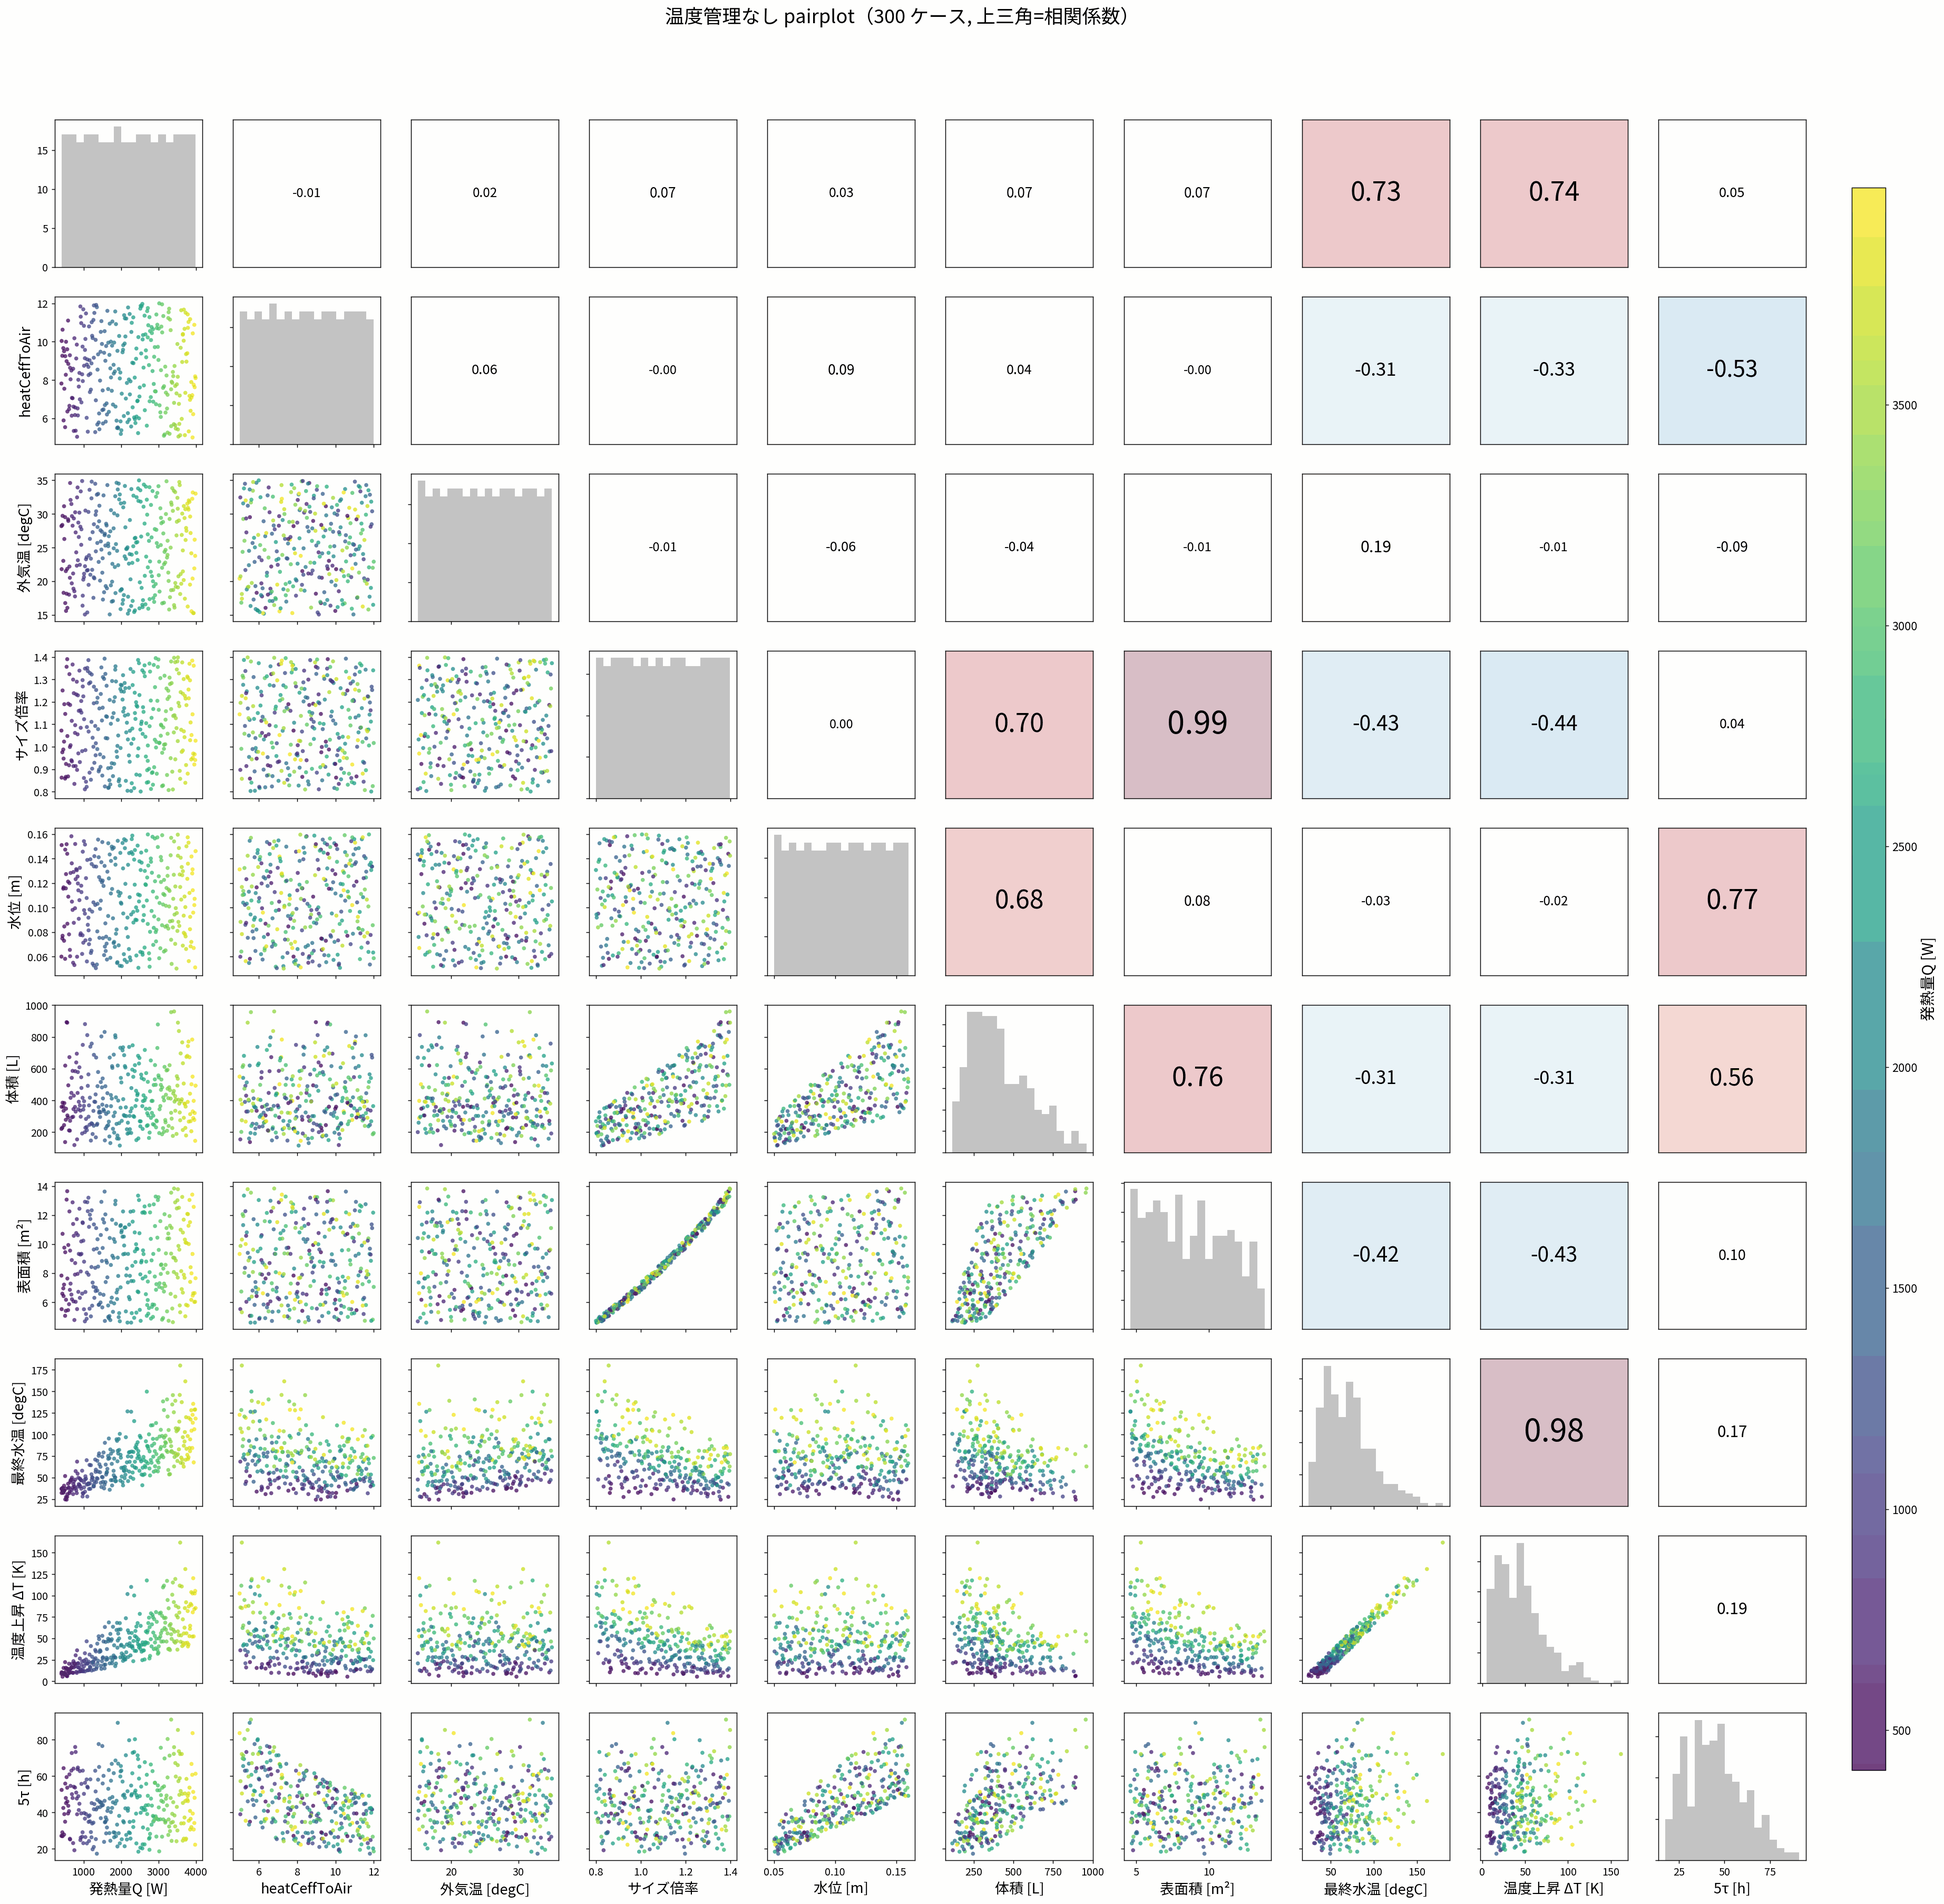
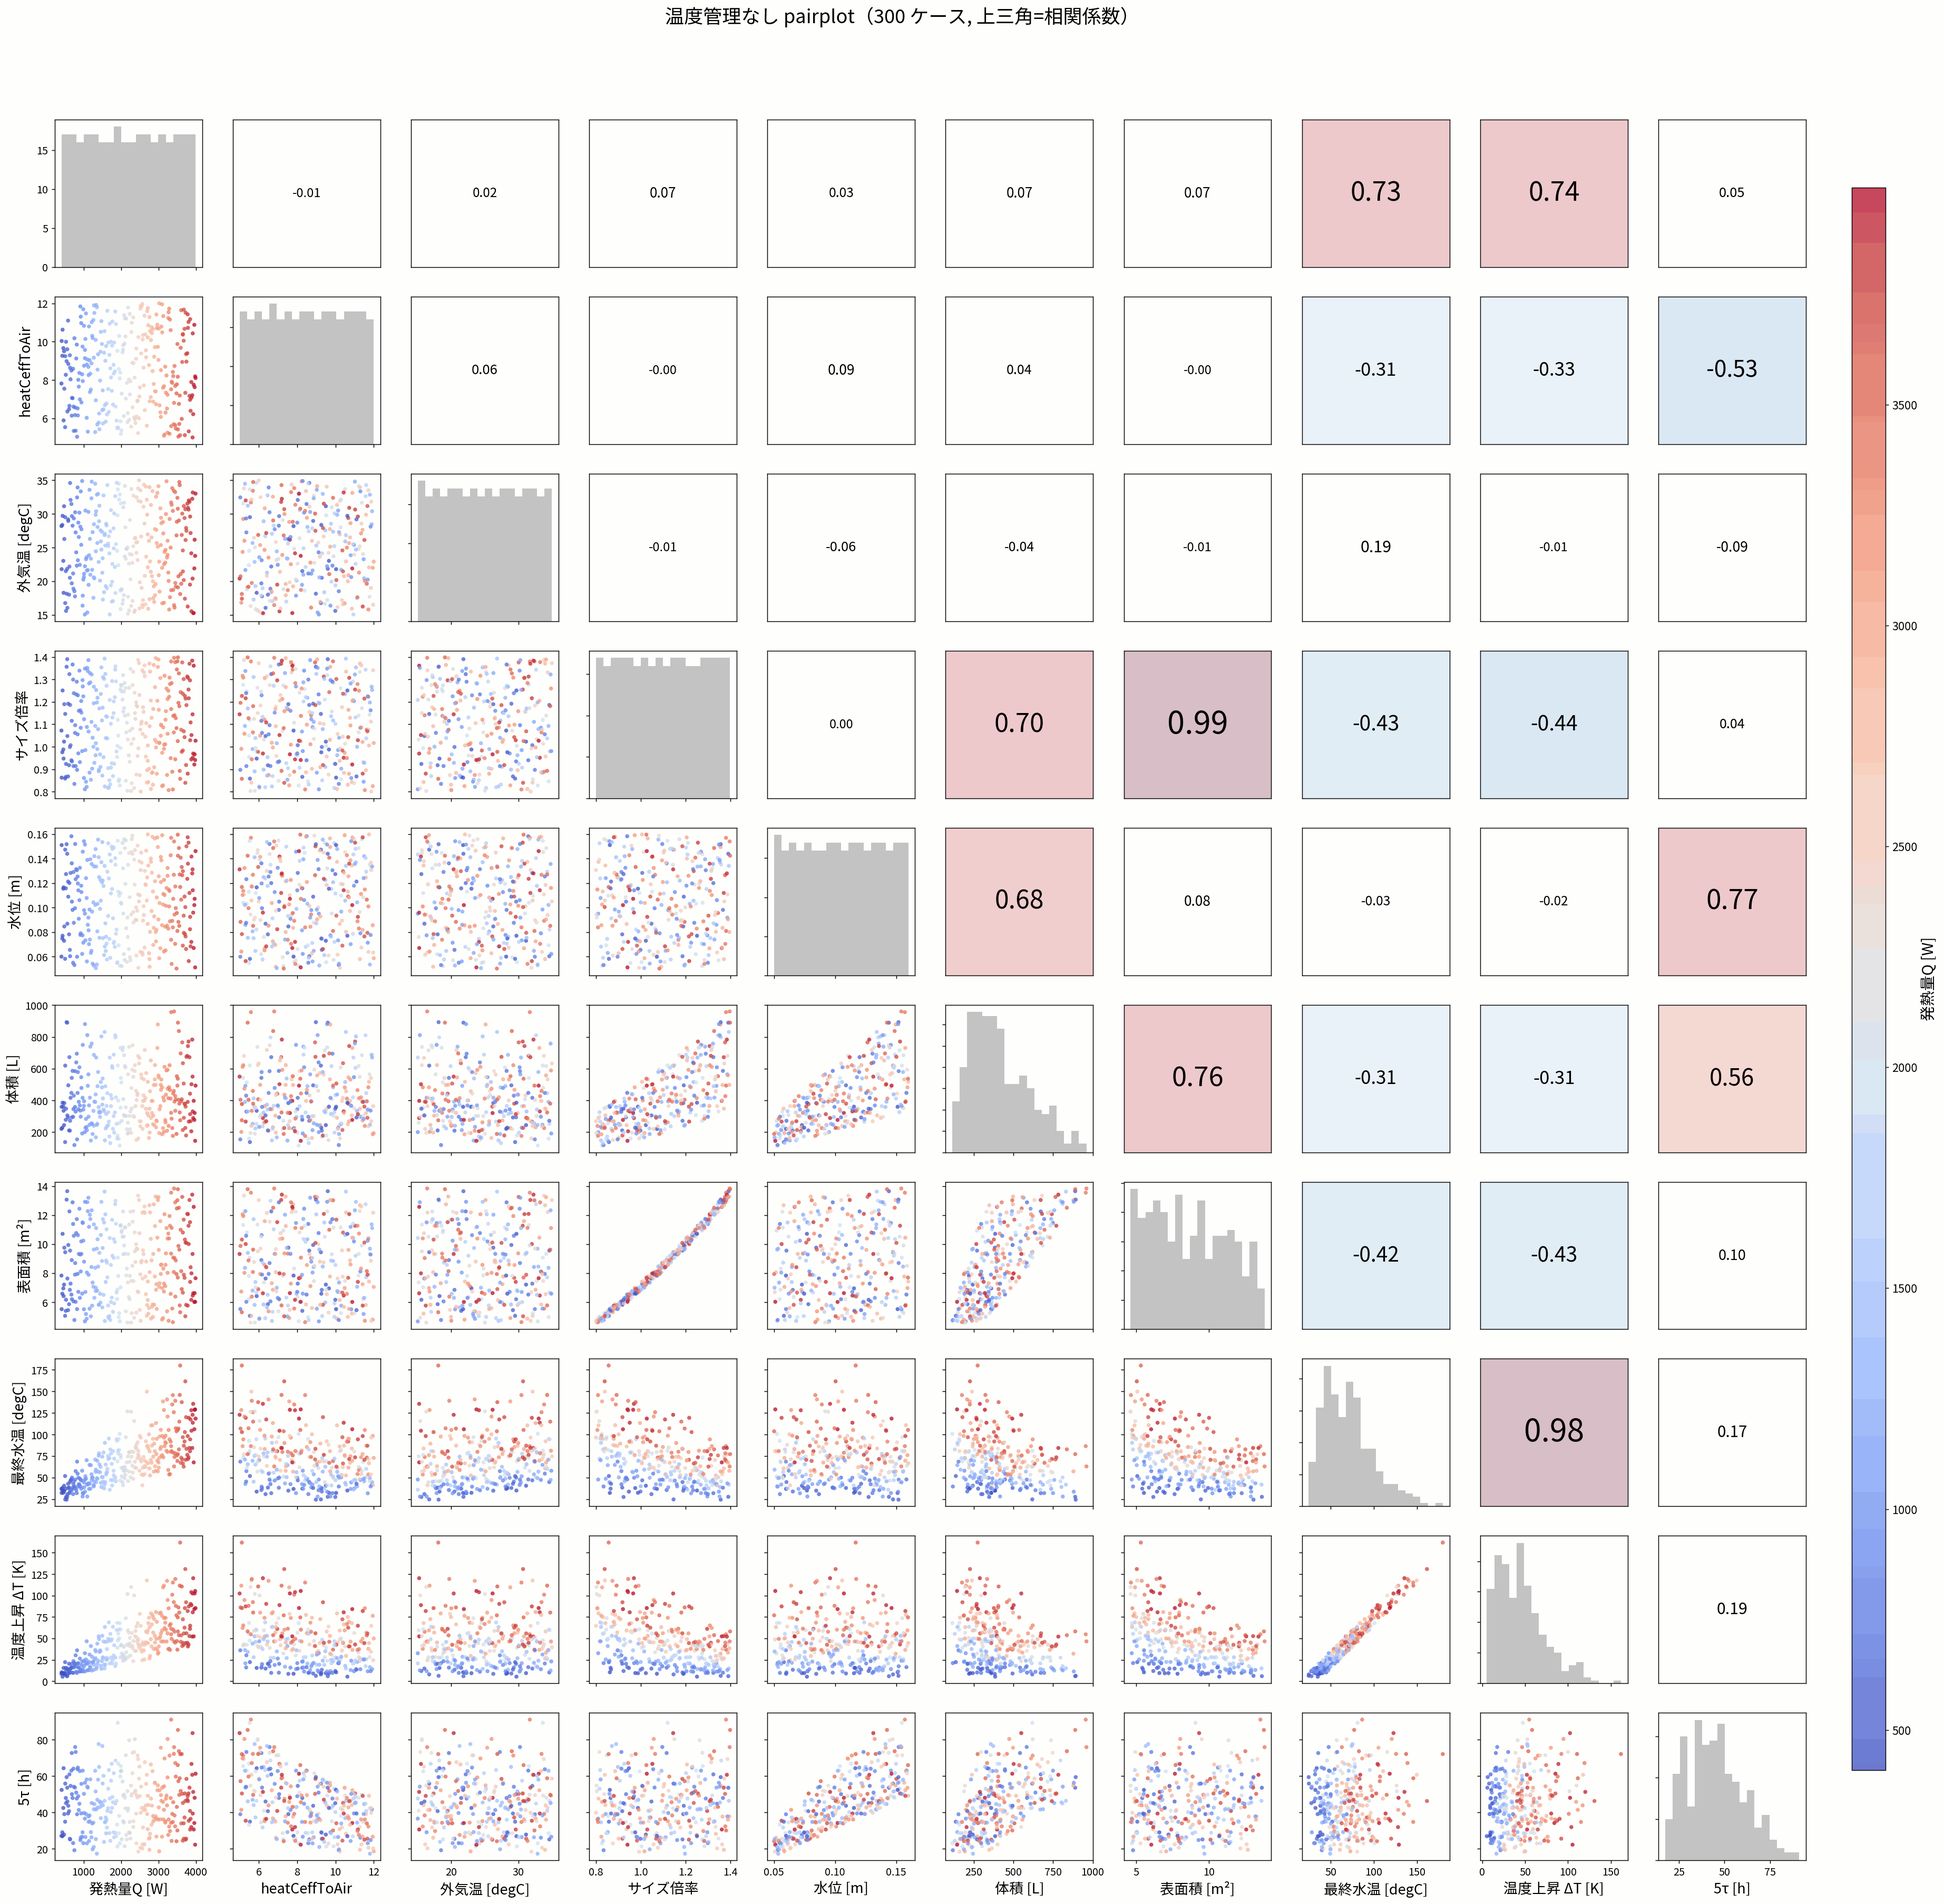
pairplot: 発熱量の色を青(小)->赤(大) coolwarm に変更
Claude-Session: https://claude.ai/code/session_012Bb2Gqoegt25dmMh1N6dBX

diff --git a/003_tank_para/pairplot_control.py b/003_tank_para/pairplot_control.py
@@ -120,7 +120,7 @@ def pairplot1(data, labels, cvals, clabel, path, title):
             if i == j:
                 ax.hist(data[:, i], bins=18, color="0.7", alpha=0.8)
             else:
-                sc = ax.scatter(data[:, j], data[:, i], c=cvals, cmap="viridis",
+                sc = ax.scatter(data[:, j], data[:, i], c=cvals, cmap="coolwarm",
                                 s=18, alpha=0.75, edgecolor="none")
             if i == m - 1:
                 ax.set_xlabel(labels[j], fontsize=15)
